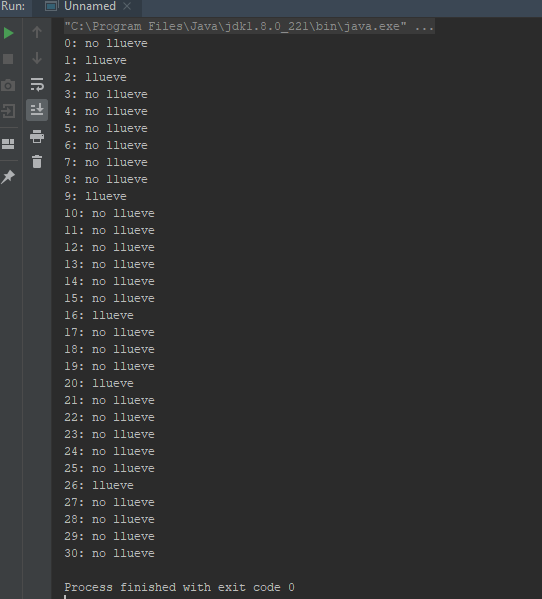
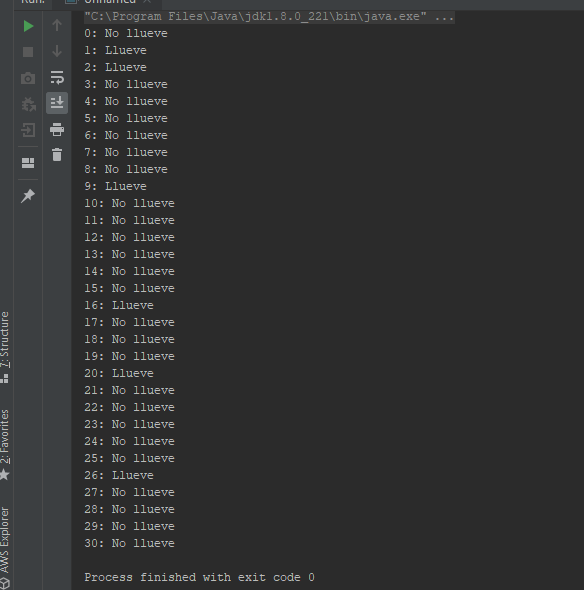
Ultimos Detalles 2

diff --git a/PracticaCLima/src/clima/Main.java b/PracticaCLima/src/clima/Main.java
@@ -64,7 +64,7 @@ public class Main {
 
     private void aplicar() {
         try {
-            String[] valoresAtributos = {"llueve", "no llueve"};
+            String[] valoresAtributos = {"Llueve", "No llueve"};
             Classifier clasificador  = (Classifier) weka.core.SerializationHelper.read("PracticaCLima/climaModel.model");
             ConverterUtils.DataSource source = new ConverterUtils.DataSource("PracticaCLima/pruebaClimaReducida.arff");
             Instances data = source.getDataSet();
